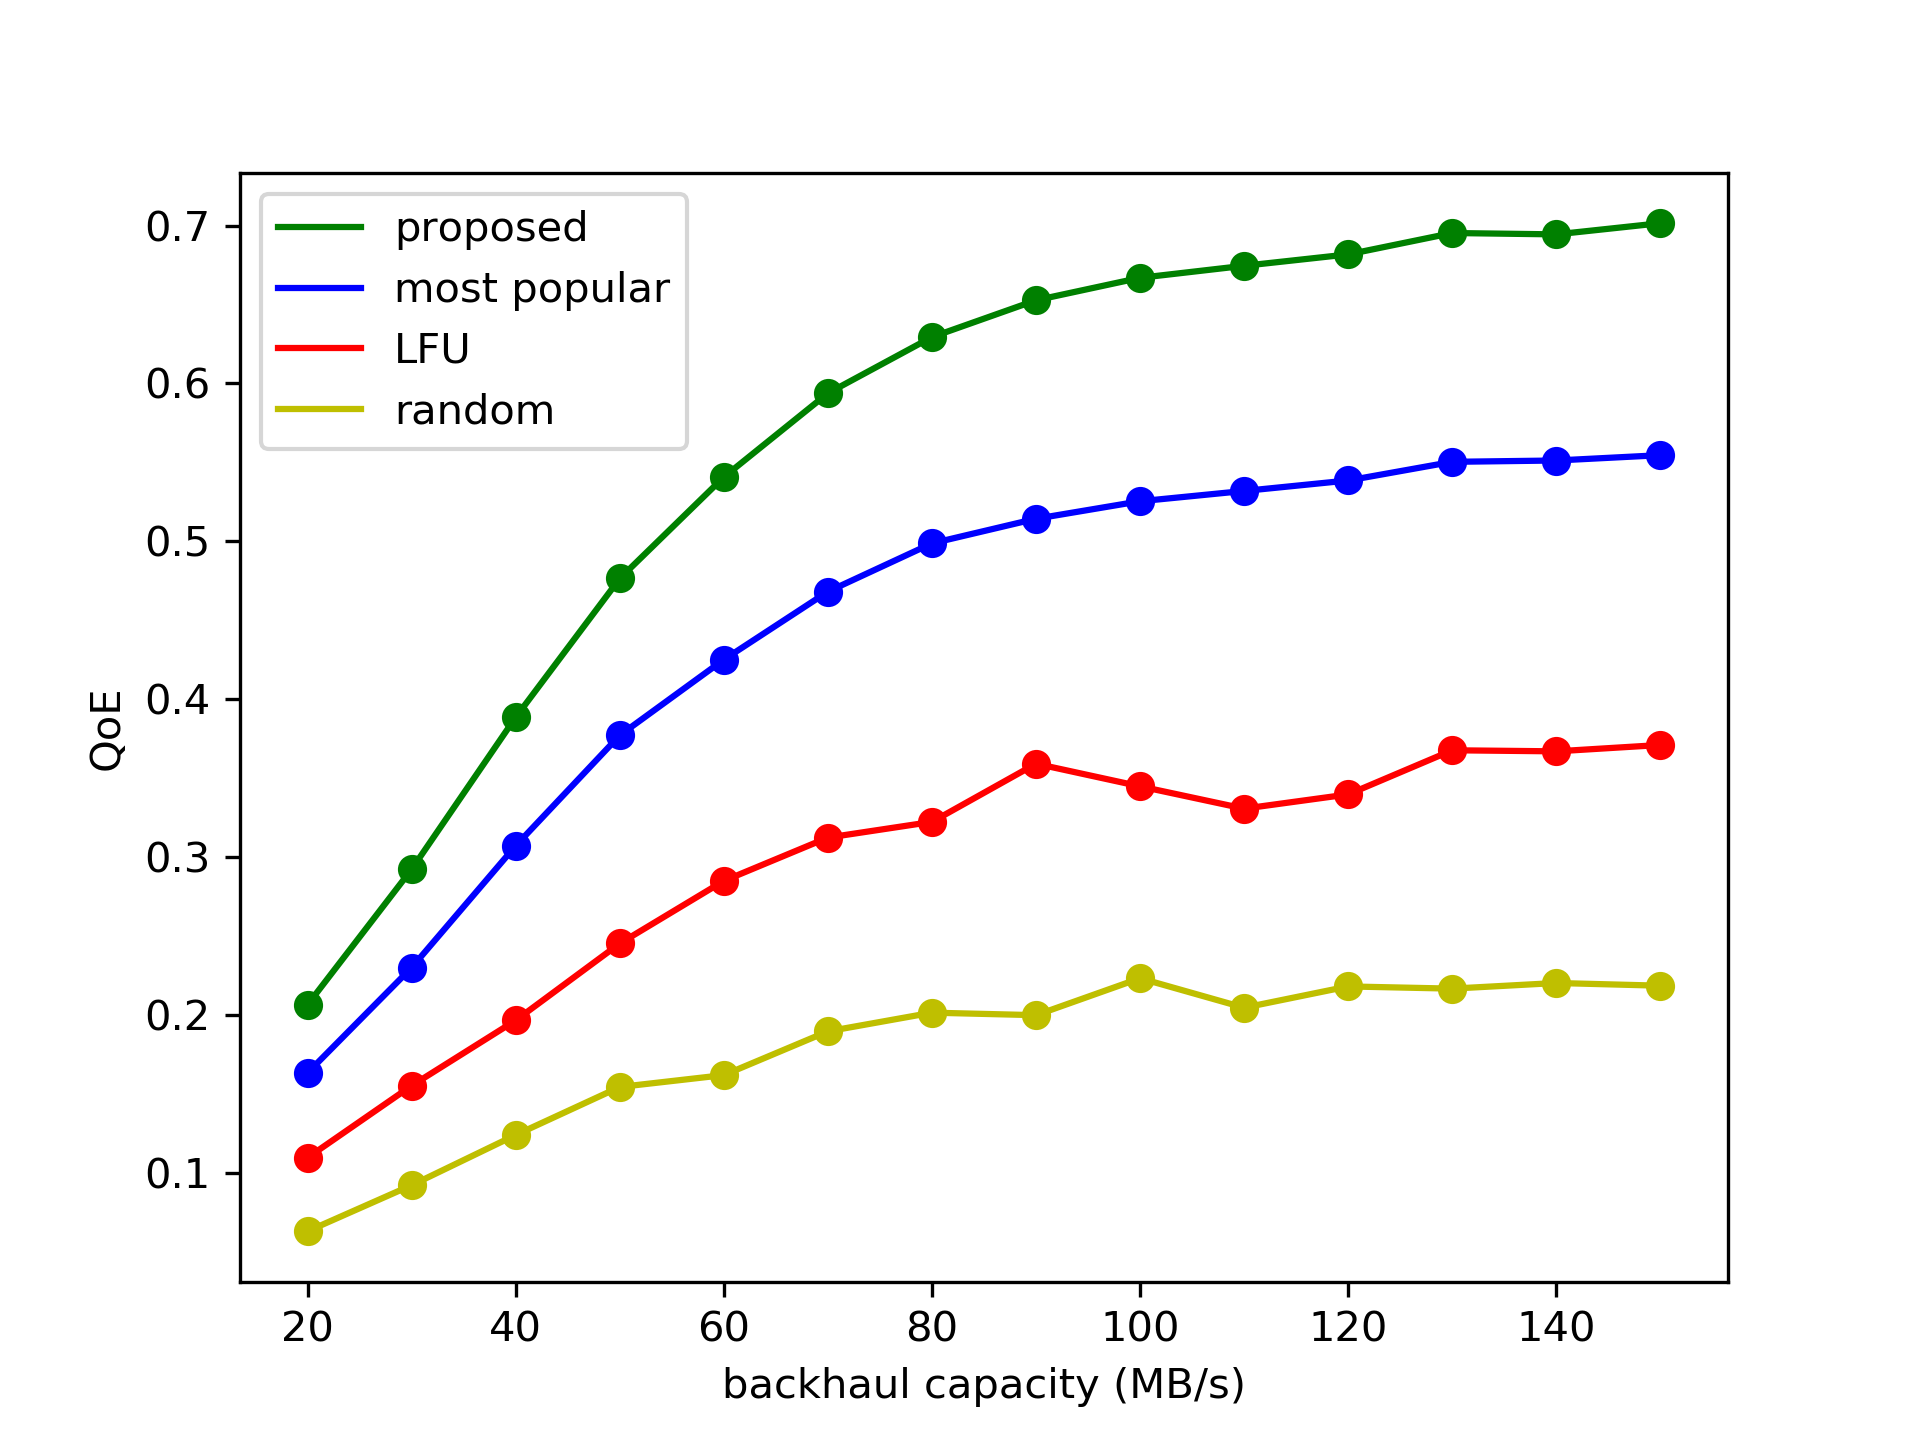
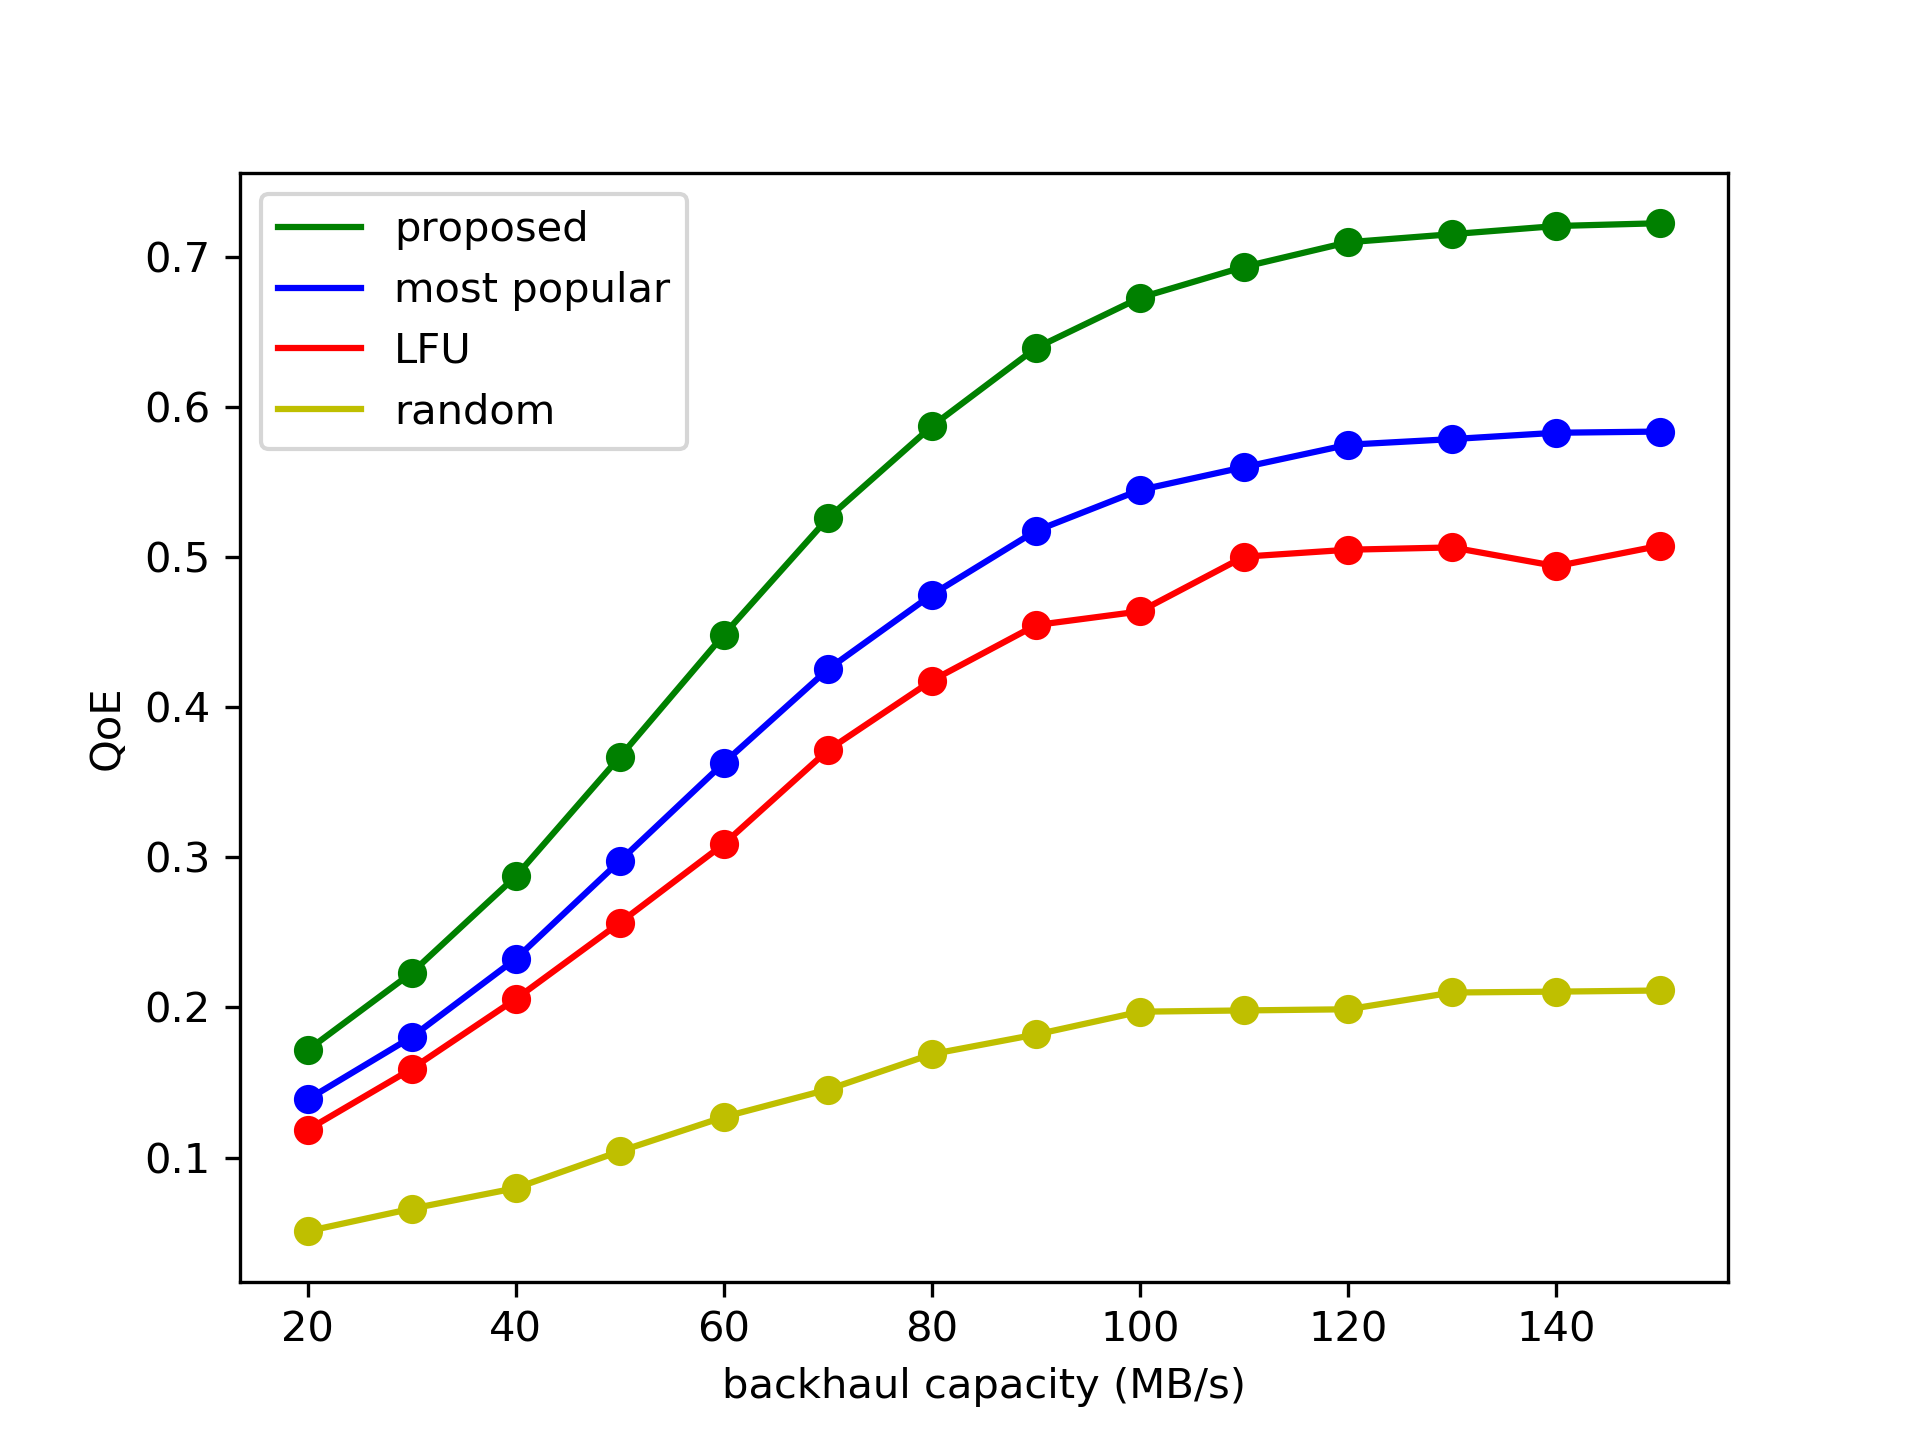
f

diff --git a/new6.py b/new6.py
@@ -1,17 +1,21 @@
 import math
 import numpy as np
+#import tensorflow as tf
 from scipy import stats
 import matplotlib.pyplot as plt
-people=1900+1005
-alpha=0.5
-file_num=5000
-capacity=100
+people=1005
+alpha=0.9
+Thb=20
+file_num=1000
+capacity=50
 interval=431
-b=4
-qa=0.5
-qb=0.5
-x_n=12
-times=1
+#b=3
+qa=0.25
+qb=0.25
+qc=0.1
+qd=0.4
+x_n=1
+times=4
 
 class user:
 	def __init__(self):
@@ -38,19 +42,13 @@ def init():
 	for i in range(1, file_num+1):
 		files.append(file(i))
 
-n1=list()
-n2=list()
-n3=list()
-n4=list()
 for abcde in range(x_n):
-	hit1=0
-	hit2=0
-	hit3=0
-	hit4=0
-	QoE1=0
-	QoE2=0
-	QoE3=0
-	QoE4=0
+	bt1=0
+	bt2=0
+	bt3=0
+	ft1=0
+	ft2=0
+	ft3=0
 	count=0
 	bound=np.arange(1, file_num)
 	weights=bound**(-alpha)
@@ -65,25 +63,16 @@ for abcde in range(x_n):
 		for i in range(1, file_num+1):
 			files.append(file(i))
 
-		with open('CollegeMsg.txt','r') as f:
-			q1=list()
-			q2=list()
-			q3=list()
-			q4=list()
-
-			occupation3=0
-			occupation4=0
+		with open('email-Eu-core-temporal.txt','r') as f:
 			edge=f.read().split()
 			ii=0
 			day=0
 			CL1=list()
+			CL11=list()
 			CL2=list()
-			CL3=dict()
-			CL4=list()
-			#CL4=list(bounded_zipf.rvs(size=capacity))
 
 			while ii+1<len(edge):
-				timestamp=int((int(edge[ii+2])-1082040961)/60/60/24)
+				timestamp=int((int(edge[ii+2]))/60/60/24)
 				users[int(edge[ii])].connect[int(edge[ii+1])]+=1
 				users[int(edge[ii])].friends[int(edge[ii+1])]=0
 				users[int(edge[ii])].active+=1
@@ -139,65 +128,67 @@ for abcde in range(x_n):
 									for f in users[i].friends:
 										if np.random.rand()<users[i].friends[f]*users[i].friends[f]:
 											users[f].wait_watch.add(a)	
+					#print(len(requests))
 
 					#evaluate
+					mp5=list()
 					for e in requests:
-						if e in CL1:
-							hit1+=1
-							QoE1+=1
+						if stats.rice.rvs(3)<1.75:
+							bt3+=2
+						else:
+							ft3+=1.25
+							bt3+=1
+
+						if e in CL1 or e in CL11:
+							ft1+=1.5
+							if e not in mp5 and np.random.rand()<=0.5:
+								ft1+=1.5
+								mp5.append(e)
+						else:
+							bt1+=1
+							ft1+=1.5
 
 						if e in CL2:
-							hit2+=1
-							QoE2+=1
-						if e in CL3:
-							hit3+=1
-							CL3[e]+=1
-							QoE3+=1
-						if e in CL4:
-							hit4+=1
-							QoE4+=1
+							ft2+=1
+						else:
+							ft2+=1.5
+							bt2+=1
+							
 
 					#determine cache
-					if occupation3>=capacity:
-						sortedLFU=sorted(CL3.items(), key=lambda kv: kv[1])
-						CL3.pop(sortedLFU[0][0])
-						occupation3-=1
-
-					if occupation4>=capacity:
-						CL4.pop(np.random.randint(len(CL4)))
-						occupation4-=1
-
 					occupation1=0
-					occupation2=0					
+					occupation11=0
+					occupation2=0				
 					CL1=[]
 					CL2=[]
 					
+
 					buf=sorted(files, key=lambda x: x.score, reverse=True)
 					for e in buf:
-						if occupation1>=capacity:
+						if np.random.rand()<=0.5:
+							if occupation1<capacity:
+								CL1.append(e.id)
+								occupation1+=1
+							else:
+								if occupation11<capacity:
+									CL11.append(e.id)
+									occupation11+=1
+						else:
+							if occupation11<capacity:
+								CL11.append(e.id)
+								occupation11+=1
+							else:
+								if occupation1<capacity:
+									CL1.append(e.id)
+									occupation1+=1
+						if occupation1>=capacity and occupation11>=capacity:
 							break
-						CL1.append(e.id)
-						occupation1+=0.5
 
 					for e in buf:
-						if occupation3>=capacity:
-							break 
-						if e not in CL3:
-							CL3[e.id]=0
-							occupation3+=1
-					for e in buf:
-						if occupation4>=capacity:
-							break
-						if e not in CL4:
-							CL4.append(e.id)
-							occupation4+=1		
-
-					buf=sorted(files, key=lambda x: x.count, reverse=True)
-					for e in buf:
-						if occupation2>=capacity:
+						if occupation2>capacity:
 							break
 						CL2.append(e.id)
-						occupation2+=1			
+						occupation2+=1
 
 					#update parameter every time slot
 					for m in users:
@@ -215,67 +206,25 @@ for abcde in range(x_n):
 						e.active=0
 
 					day+=1
-					#print(day)
 					if day==67:
 						day=72
 					if day>interval:
-						break
-					#print(len(CL4))
-				'''else:
-					for u in users:
-						if u.downloading:
-							bw=stats.rice.rvs(b)
-							q1.append(qa*math.log(bw)+qb*abs(bw-u.bt_1))
-
-							if :
-								u.watching=False
-								u.remain=0
-								u.cached=0	'''		
+						break		
 
 
-	print(float(hit1)/count)
-	print(float(hit2)/count)
-	print(float(hit3)/count)
-	print(float(hit4)/count)
-	n1.append(float(hit1)/count)
-	n2.append(float(hit2)/count)
-	n3.append(float(hit3)/count)
-	n4.append(float(hit4)/count)
+	print(abcde)
+	'''co.append(float(bt1)/count)
+	co.append(float(ft1)/count)
+	noco.append(float(bt2)/count)
+	noco.append(float(ft2)/count)'''
+	print(float(bt1)/count,float(bt2)/count,float(bt3)/count)
+	print(ft1/count,ft2/count,ft3/count)
 
-	'''print(float(QoE1+(count-hit1)*0.3)/count)
-	print(float(QoE2+(count-hit2)*0.3)/count)
-	print(float(QoE3+(count-hit3)*0.3)/count)
-	print(float(QoE4+(count-hit4)*0.3)/count)
-	n1.append(float(QoE1+(count-hit1)*0.3)/count)
-	n2.append(float(QoE2+(count-hit2)*0.3)/count)
-	n3.append(float(QoE3+(count-hit3)*0.3)/count)
-	n4.append(float(QoE4+(count-hit4)*0.3)/count)'''
-
-
-	alpha+=0.1
-	#capacity+=10
-x=list()
-for i in range(x_n):
-	x.append(0.5+i*0.1)
-#for i in range(x_n):
-#	x.append(50+i*10)
-
-plt.plot(x,n1,"go",)
-plt.plot(x,n2,"bo",)
-plt.plot(x,n3,"ro",)
-plt.plot(x,n4,"yo",)
-plt.plot(x,n1,"g",label='proposed')
-plt.plot(x,n2,"b",label='most popular')
-plt.plot(x,n3,"r",label='LFU')
-plt.plot(x,n4,"y",label='random')
-plt.xlabel("alpha")
-#plt.xlabel("cache size")
-#plt.ylabel("QoE")
-plt.ylabel("hit rate")
+	Thb+=10
+'''x=['backhaul','fronthaul']
+plt.bar(x,co,align="edge",width=-0.35)
+plt.bar(x,noco,align="edge",width=0.35)
+plt.ylabel("average traffic (MB/s)")
 plt.legend()
-plt.savefig('alpha.png',dpi=300)
-print(n1)
-print(n2)
-print(n3)
-print(n4)
-plt.show()
+plt.savefig('traffic-conoco.png',dpi=300)
+plt.show()'''

diff --git a/new2.py b/new2.py
@@ -3,7 +3,7 @@ import numpy as np
 #import tensorflow as tf
 from scipy import stats
 import matplotlib.pyplot as plt
-people=1005
+people=1900
 alpha=0.9
 file_num=1000
 capacity=0
@@ -12,7 +12,7 @@ interval=431
 qa=0.5
 qb=0.5
 x_n=20
-times=70
+times=50
 
 class user:
 	def __init__(self):
@@ -73,7 +73,7 @@ for abcde in range(x_n):
 		for i in range(1, file_num+1):
 			files.append(file(i))
 
-		with open('email-Eu-core-temporal.txt','r') as f:
+		with open('CollegeMsg.txt','r') as f:
 			q1=list()
 			q2=list()
 			q3=list()

diff --git a/new5.py b/new5.py
@@ -3,7 +3,7 @@ import numpy as np
 #import tensorflow as tf
 from scipy import stats
 import matplotlib.pyplot as plt
-people=1005
+people=1900
 alpha=0.9
 Thb=20
 file_num=1000
@@ -15,7 +15,7 @@ qb=0.25
 qc=0.1
 qd=0.4
 x_n=14
-times=50
+times=30
 
 class user:
 	def __init__(self):
@@ -67,7 +67,7 @@ for abcde in range(x_n):
 		for i in range(1, file_num+1):
 			files.append(file(i))
 
-		with open('email-Eu-core-temporal.txt','r') as f:
+		with open('CollegeMsg.txt','r') as f:
 			edge=f.read().split()
 			ii=0
 			day=0

diff --git a/new4.py b/new4.py
@@ -3,7 +3,7 @@ import numpy as np
 #import tensorflow as tf
 from scipy import stats
 import matplotlib.pyplot as plt
-people=1005
+people=1900
 alpha=0.9
 Thb=20
 file_num=1000
@@ -15,7 +15,7 @@ qb=0.25
 qc=0.1
 qd=0.4
 x_n=14
-times=50
+times=30
 
 class user:
 	def __init__(self):
@@ -69,7 +69,7 @@ for abcde in range(x_n):
 		for i in range(1, file_num+1):
 			files.append(file(i))
 
-		with open('email-Eu-core-temporal.txt','r') as f:
+		with open('CollegeMsg.txt','r') as f:
 			q1=list()
 			q2=list()
 			q3=list()
